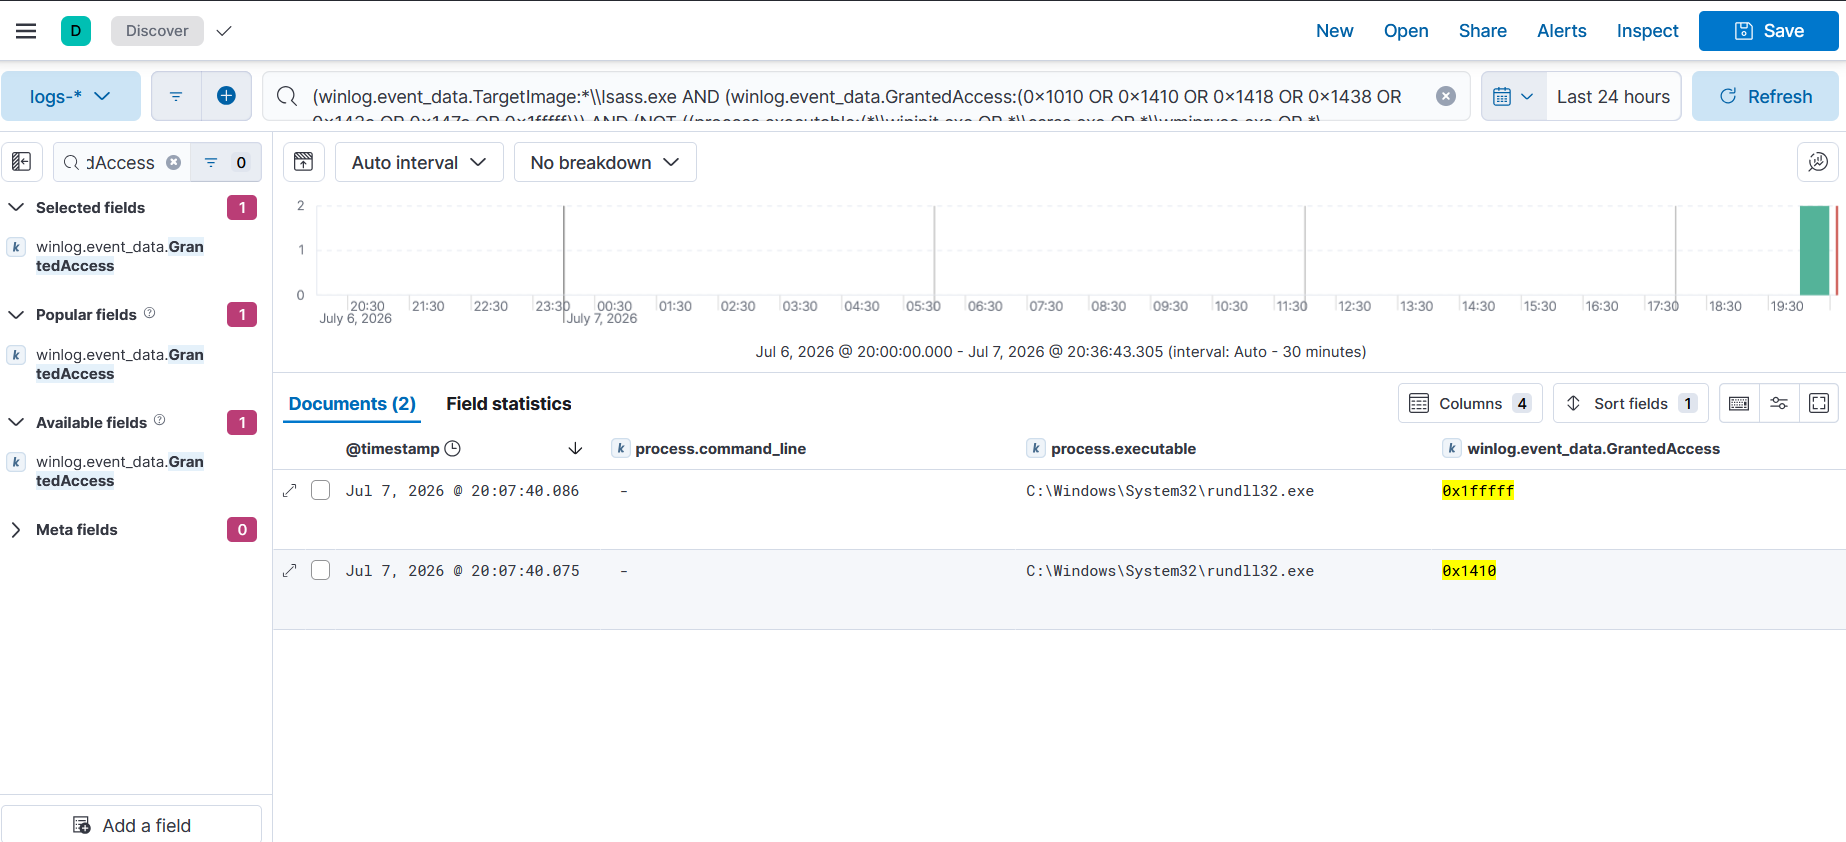
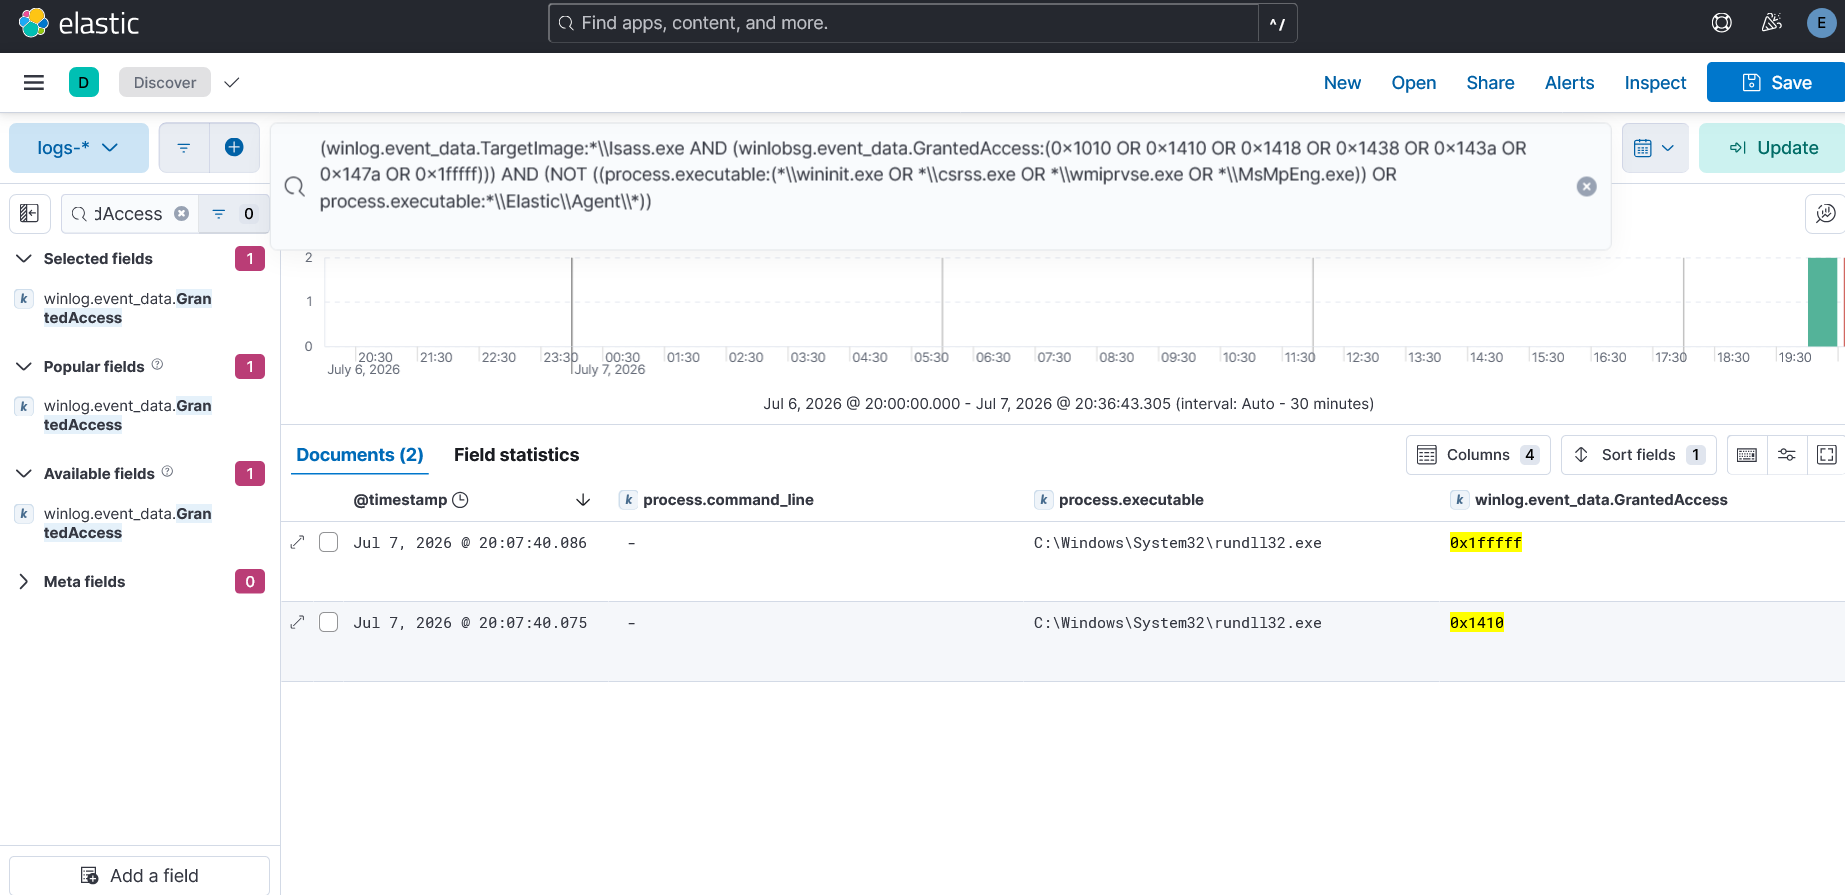
docs(T1543.003): new-service-install scope case study + screenshot

diff --git a/docs/case-studies/T1543.003-new-service-install.md b/docs/case-studies/T1543.003-new-service-install.md
@@ -1,0 +1,80 @@
+# Case Study — T1543.003 New Service Installation
+
+**Rule:** [`new-service-install`](../../detections/persistence/new-service-install/)
+**Tactic / Technique:** Persistence + Privilege Escalation / T1543.003
+**Date:** 2026-07-07
+
+> A "scope" finding: the rule behaves *exactly as designed* — it catches the high-signal case and
+> deliberately skips the low-signal one. The interesting part is understanding the tradeoff, not
+> fixing a bug.
+
+## 1. Attack (Atomic Red Team)
+
+```powershell
+Invoke-AtomicTest T1543.003 -TestNumbers 2   # Service Installation CMD
+```
+Creates and starts a new Windows service via `sc.exe create` → fires **Event ID 7045**
+("a service was installed") in the **System** log. The default test installs a service whose
+binary is a downloaded executable:
+```
+sc.exe create AtomicTestService_CMD binPath= "C:\AtomicRedTeam\atomics\T1543.003\bin\AtomicService.exe" ...
+```
+
+## 2. Detect (default) — MISS, and why
+
+Rule 5's query returned **nothing**. Diagnosing the miss (telemetry vs. logic):
+
+```
+event.code : "7045"   ->  1 event; winlog.event_data.ImagePath = ...\AtomicService.exe
+```
+
+- **The 7045 event landed** → telemetry is fine (System log is collected by default; no sensor gap
+  like T1003.001's EID 10).
+- **The `ImagePath` is `AtomicService.exe`** — a binary that matches **none** of Rule 5's patterns
+  (`cmd`, `powershell`, `\Temp\`, `\AppData\`, `PSEXESVC`, `.bat`, `.vbs`…).
+
+So this is a **rule-scope miss, not a bug.** Rule 5 is deliberately narrow — it flags services whose
+image is a **shell/script or a temp/user path** (Cobalt Strike `cmd /c ...`, PsExec `PSEXESVC`) — and
+intentionally does **not** flag every service install, because legitimate software installs services
+with their own `.exe` constantly (alerting on all of them = noise flood).
+
+## 3. Validate the intended scope — CATCH
+
+Forced a shell-based service (the pattern Rule 5 *is* built for), with a fresh name:
+```powershell
+Invoke-AtomicTest T1543.003 -TestNumbers 2 -InputArgs @{"binary_path"="C:\Windows\System32\cmd.exe"; "service_name"="AtomicSvc_Shell"}
+```
+(`CreateService SUCCESS`; the `StartService` error 1053 is expected — `cmd.exe` isn't a real service,
+but the 7045 creation event already fired.)
+
+Re-hunting `event.code : "7045"` and pasting Rule 5's Lucene query:
+
+| Service | ImagePath | Rule 5 |
+|---------|-----------|--------|
+| `AtomicTestService_CMD` | `...\AtomicService.exe` (arbitrary binary) | ❌ **miss** (scope) |
+| `AtomicSvc_Shell` | `C:\Windows\System32\cmd.exe` (shell) | ✅ **catch** |
+
+The rule fires on the shell-based service and skips the binary one — working exactly as scoped.
+
+## 4. The coverage tradeoff & recommendation
+
+The **cost** of Rule 5's precision: a malware service running its **own binary** from a normal path
+(this test, TinyTurla, much real-world service persistence) evades it. You do **not** fix this by
+widening Rule 5 — that reintroduces the noise it was designed to avoid.
+
+The mature answer is **two-tier coverage**:
+- **Rule 5 (high fidelity, `level: high`)** — shell/temp/PsExec service images → auto-alert.
+- **A complementary low-severity rule (`level: informational`/`low`)** — *any* new service (7045) as a
+  hunting/review feed, since service installs are rare enough to review. This catches the
+  binary-based services Rule 5 intentionally skips.
+
+*(Building that companion rule is a nice follow-up — "found a coverage gap, closed it with a
+two-tier design.")*
+
+## Screenshots
+
+`event.code : "7045"` in Discover — both services side by side: `AtomicSvc_Shell` with
+ImagePath `cmd.exe` (matched by Rule 5) and `AtomicTestService_CMD` with ImagePath `AtomicService.exe`
+(skipped by scope).
+
+![7045 both services](10-t1543-7045-both-services.png)

diff --git a/PROGRESS.md b/PROGRESS.md
@@ -99,6 +99,11 @@ Case studies (docs/case-studies/):
       reloaded; (2) precision — Elastic Agent (agentbeat.exe) flooded rule with 0x1010 FPs (136 hits)
       → excluded `\Elastic\Agent\` by path; (3) recall — dump's 0x1fffff full-access open was missed
       → added 0x1fffff. After tune: 136 → 2 clean rundll32→lsass hits. Best case study of the project.
+- [x] T1543.003 new service install — ATH test 2. SCOPE finding: default test installs a service
+      running its own binary (AtomicService.exe) → Rule 5 MISS by design (7045 landed fine, ImagePath
+      matched none of the shell/temp patterns). Overrode binary_path to cmd.exe → Rule 5 CATCH.
+      Rule works as scoped (shell/PsExec services); documented two-tier coverage idea for binary
+      services. Different finding type: rule scope/coverage tradeoff, not a bug.
 - [ ] remaining techniques…
 ## Phase 4 — CI/CD pipeline & ATT&CK coverage map  ⬜ not started
 ## Phase 5 — Python phishing / IOC triage tool  ⬜ not started